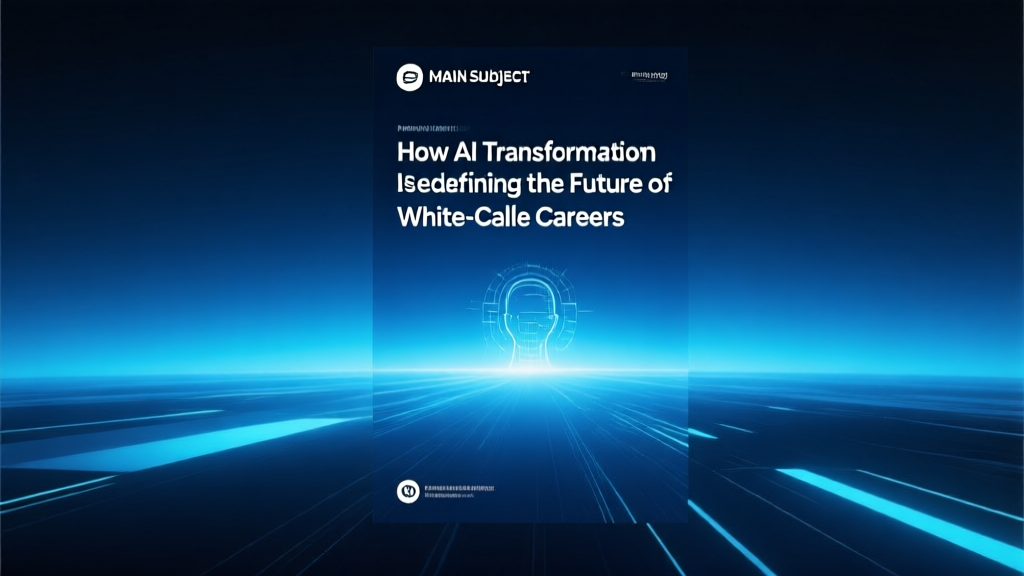
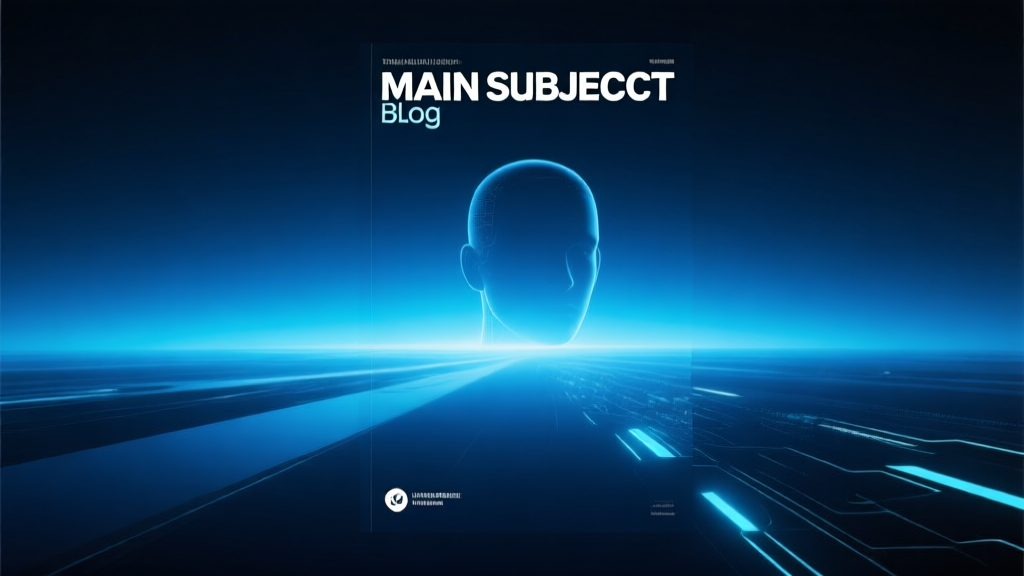
fix: Remove text from image generation prompts
- Remove TOPIC title from prompt (was causing text generation)
- Remove "text overlay" mention
- Strengthen NO TEXT instruction with CRITICAL emphasis
- Regenerated test image

diff --git a/scripts/generate-image.ts b/scripts/generate-image.ts
@@ -255,7 +255,7 @@ function generatePromptForPost(post: PostMeta): string {
   const secondaryElements = visualElements.slice(1).join(', ');
   const styleDescription = [...new Set(styles)].join(', ');
 
-  return `Premium technology blog cover image. MAIN SUBJECT: ${mainElement}. ${secondaryElements ? `SECONDARY: ${secondaryElements}.` : ''} TOPIC: "${post.title}". STYLE: ${themeColor} tones with dark gradient background, ${styleDescription}, premium tech publication quality. Sophisticated, forward-thinking, professional mood. Dramatic lighting with subtle highlights and ambient glow. Wide 16:9 aspect ratio. Central focus with depth. Clean layout suitable for text overlay. NO text, logos, or watermarks. NO human faces. Abstract/conceptual representation.`;
+  return `Premium technology blog cover image. MAIN SUBJECT: ${mainElement}. ${secondaryElements ? `SECONDARY: ${secondaryElements}.` : ''} STYLE: ${themeColor} tones with dark gradient background, ${styleDescription}, premium tech publication quality. Sophisticated, forward-thinking, professional mood. Dramatic lighting with subtle highlights and ambient glow. Wide 16:9 aspect ratio. Central focus with depth. CRITICAL: Absolutely NO text, NO letters, NO words, NO numbers, NO logos, NO watermarks anywhere in the image. NO human faces. Pure abstract/conceptual visual representation only.`;
 }
 
 async function generateImage(post: PostMeta): Promise<string | null> {
